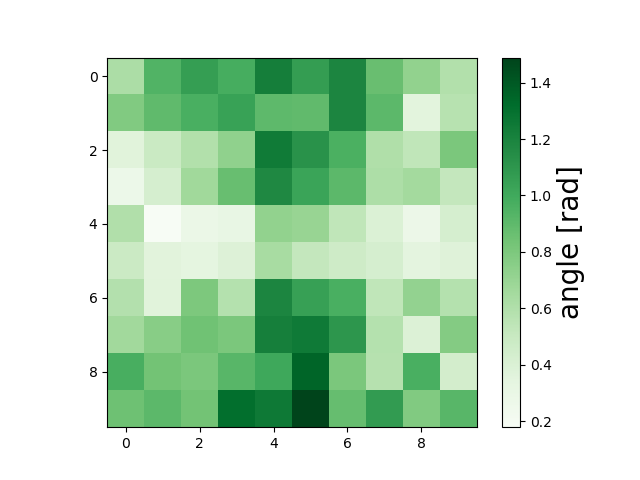
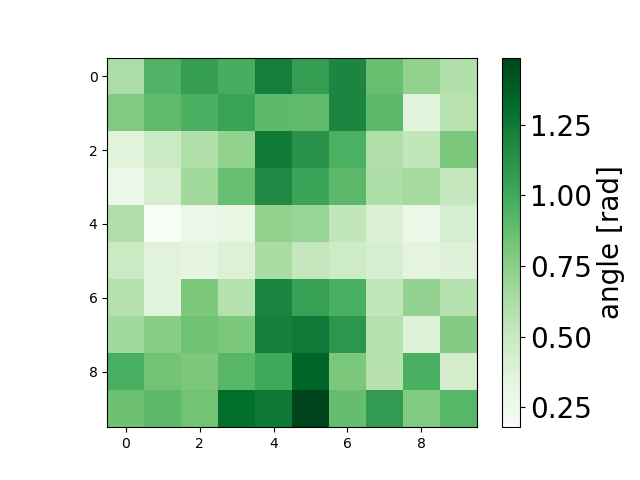
Convert to degree option in vizualize_angles function

diff --git a/plotting.py b/plotting.py
@@ -43,7 +43,7 @@ def plot_angles_database(db, start_frame, end_frame, orient_line, folder = "angl
     os.system(command)
 
 
-def vizualize_angles(angles, points, vecs1, vecs2, arrows=True, image=None, normalize=True, size_factor=10, text=True, sample_factor=10,cbar_max_angle=None):
+def vizualize_angles(angles, points, vecs1, vecs2, arrows=True, image=None, normalize=True, size_factor=10, text=True, sample_factor=10,cbar_max_angle=None, angle_in_degree=True):
     fig=plt.figure()
     if isinstance(image, np.ndarray):
         plt.imshow(image,cmap="Greys")
@@ -67,7 +67,11 @@ def vizualize_angles(angles, points, vecs1, vecs2, arrows=True, image=None, norm
     norm = matplotlib.colors.Normalize(vmin=0, vmax=vmax)
     sm = plt.cm.ScalarMappable(cmap=matplotlib.cm.get_cmap("Greens"), norm=norm)
     cbar=plt.colorbar(sm)
-    cbar.ax.set_ylabel("angle [rad]",fontsize=20)
+    if angle_in_degree:
+        cbar.ax.set_yticklabels([str(np.round(360*i/(2*np.pi))) for i in cbar.ax.get_yticks()])
+        cbar.ax.set_ylabel("angle [°]",fontsize=20)
+    else:
+        cbar.ax.set_ylabel("angle [rad]",fontsize=20)
     return fig
 
 def display_spatial_angle_distribution(points,angles,bins=None,fig_paras={},imshow_paras={"cmap":"Greens"},bg="Greys"):

diff --git a/edge_detection_by_bene.py b/edge_detection_by_bene.py
@@ -42,7 +42,7 @@ center_rand = np.array([im.shape[0]/2,im.shape[1]/2])
 c_vecs_rand = np.array([[center_rand[0]-p[0],center_rand[1]-p[1]] for p in l_points_rand])
 ta_rand = calculate_angle(l_vecs_rand,c_vecs_rand,axis=1)
 ta_adjusted_rand = project_angle(ta_rand)
-fig_angles2=vizualize_angles(ta_adjusted_rand, l_points_rand, l_vecs_rand,c_vecs_rand ,image=im, sample_factor=4, size_factor=30, text=False, arrows=True)
+fig_angles2=vizualize_angles(ta_adjusted_rand, l_points_rand, l_vecs_rand,c_vecs_rand ,image=im, sample_factor=4, size_factor=30, text=False, arrows=True, angle_in_degree=True)
 #diplay_radial_angle_distribution(l_points_rand, center_rand, ta_adjusted_rand, 100)
 fig_angles_dist2=display_spatial_angle_distribution(l_points_rand, ta_adjusted_rand, bins=None)
 plt.show()
